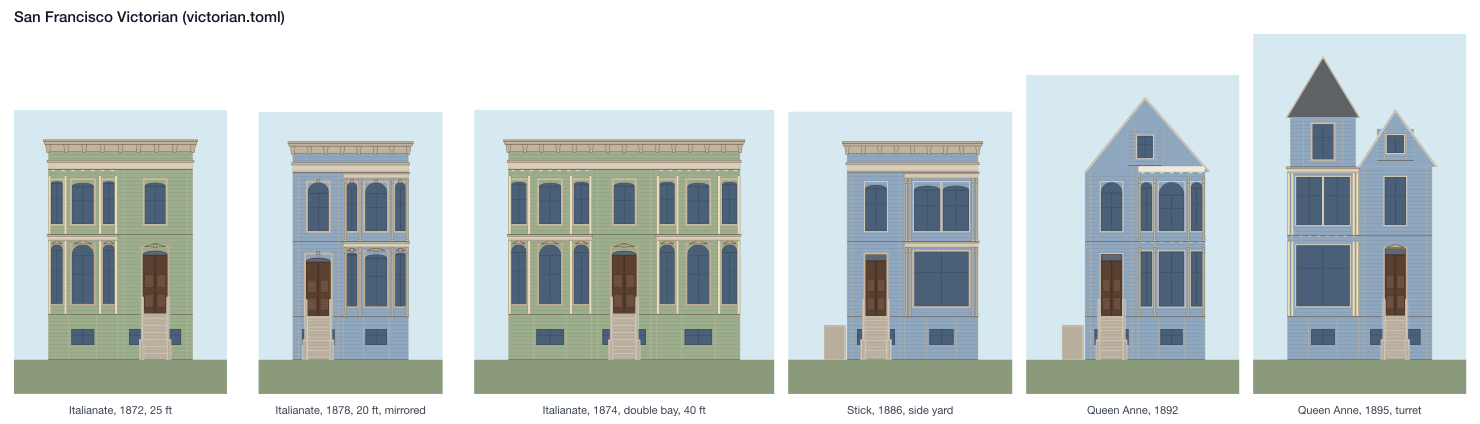
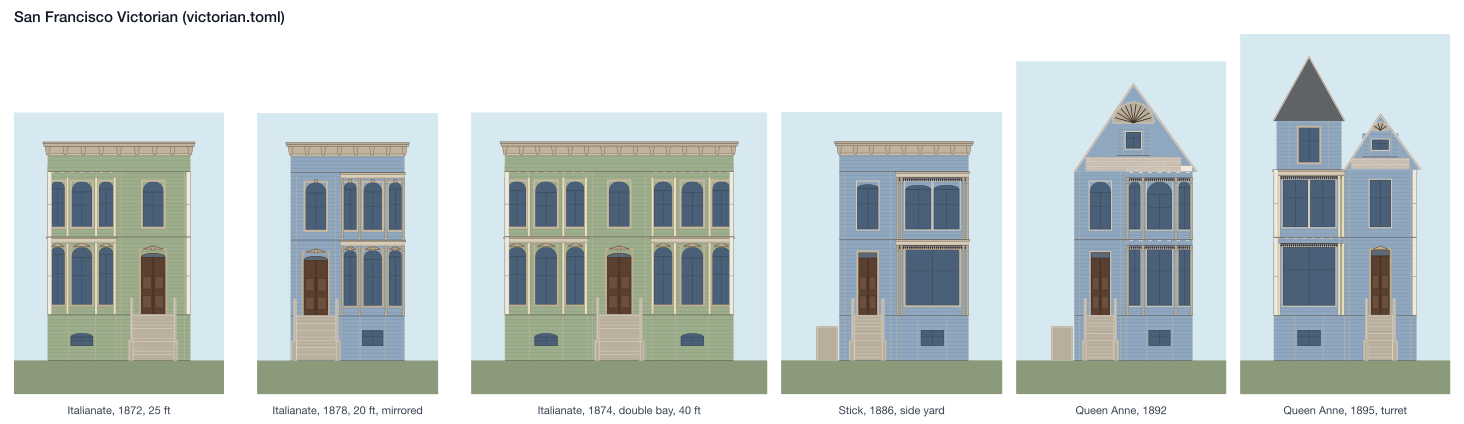
Fold in the photo check: Victorian and Paris values
Victorian: storeys 2.4 / 4.1 / 3.6, gable rise 0.62-0.78 of its width,
turret cones about as tall as the drum is wide, basement windows arched /
flat / round 0.5 / 0.4 / 0.1 (no wider than 1.2 m), quoin strips by class.
Paris: noble filant full 0.8 or central 0.2; from 1860 a letting floor has
rails, a grouped balcony or a balcony per window (0.4 / 0.35 / 0.25);
pediments on the noble floor, the one above, or none (0.3 / 0.25 / 0.45);
an odd front's door in the middle 0.4, an end 0.35, the second bay 0.25.

diff --git a/src/buildings/typologies/paris/rules.py b/src/buildings/typologies/paris/rules.py
@@ -30,7 +30,7 @@ def write_balconette(shape: Shape, below, d) -> list:
     """A balcony slab under a filant, none under a garde-corps; the grown iron
     (rails, bars, rosettes, diagonals) stands on it."""
     nodes = list(below)
-    if shape.id.rsplit("/", 1)[-1].startswith("balcon_filant"):
+    if shape.id.rsplit("/", 1)[-1].startswith("balcon"):
         s = shape.scope
         nodes.insert(0, BalconyNode(id=f"{shape.id}/platform", kind="balcony", trace=tuple(shape.trace),
                                     props={**kit.xywh(s), "continuous": True, "projection": 0.9,
